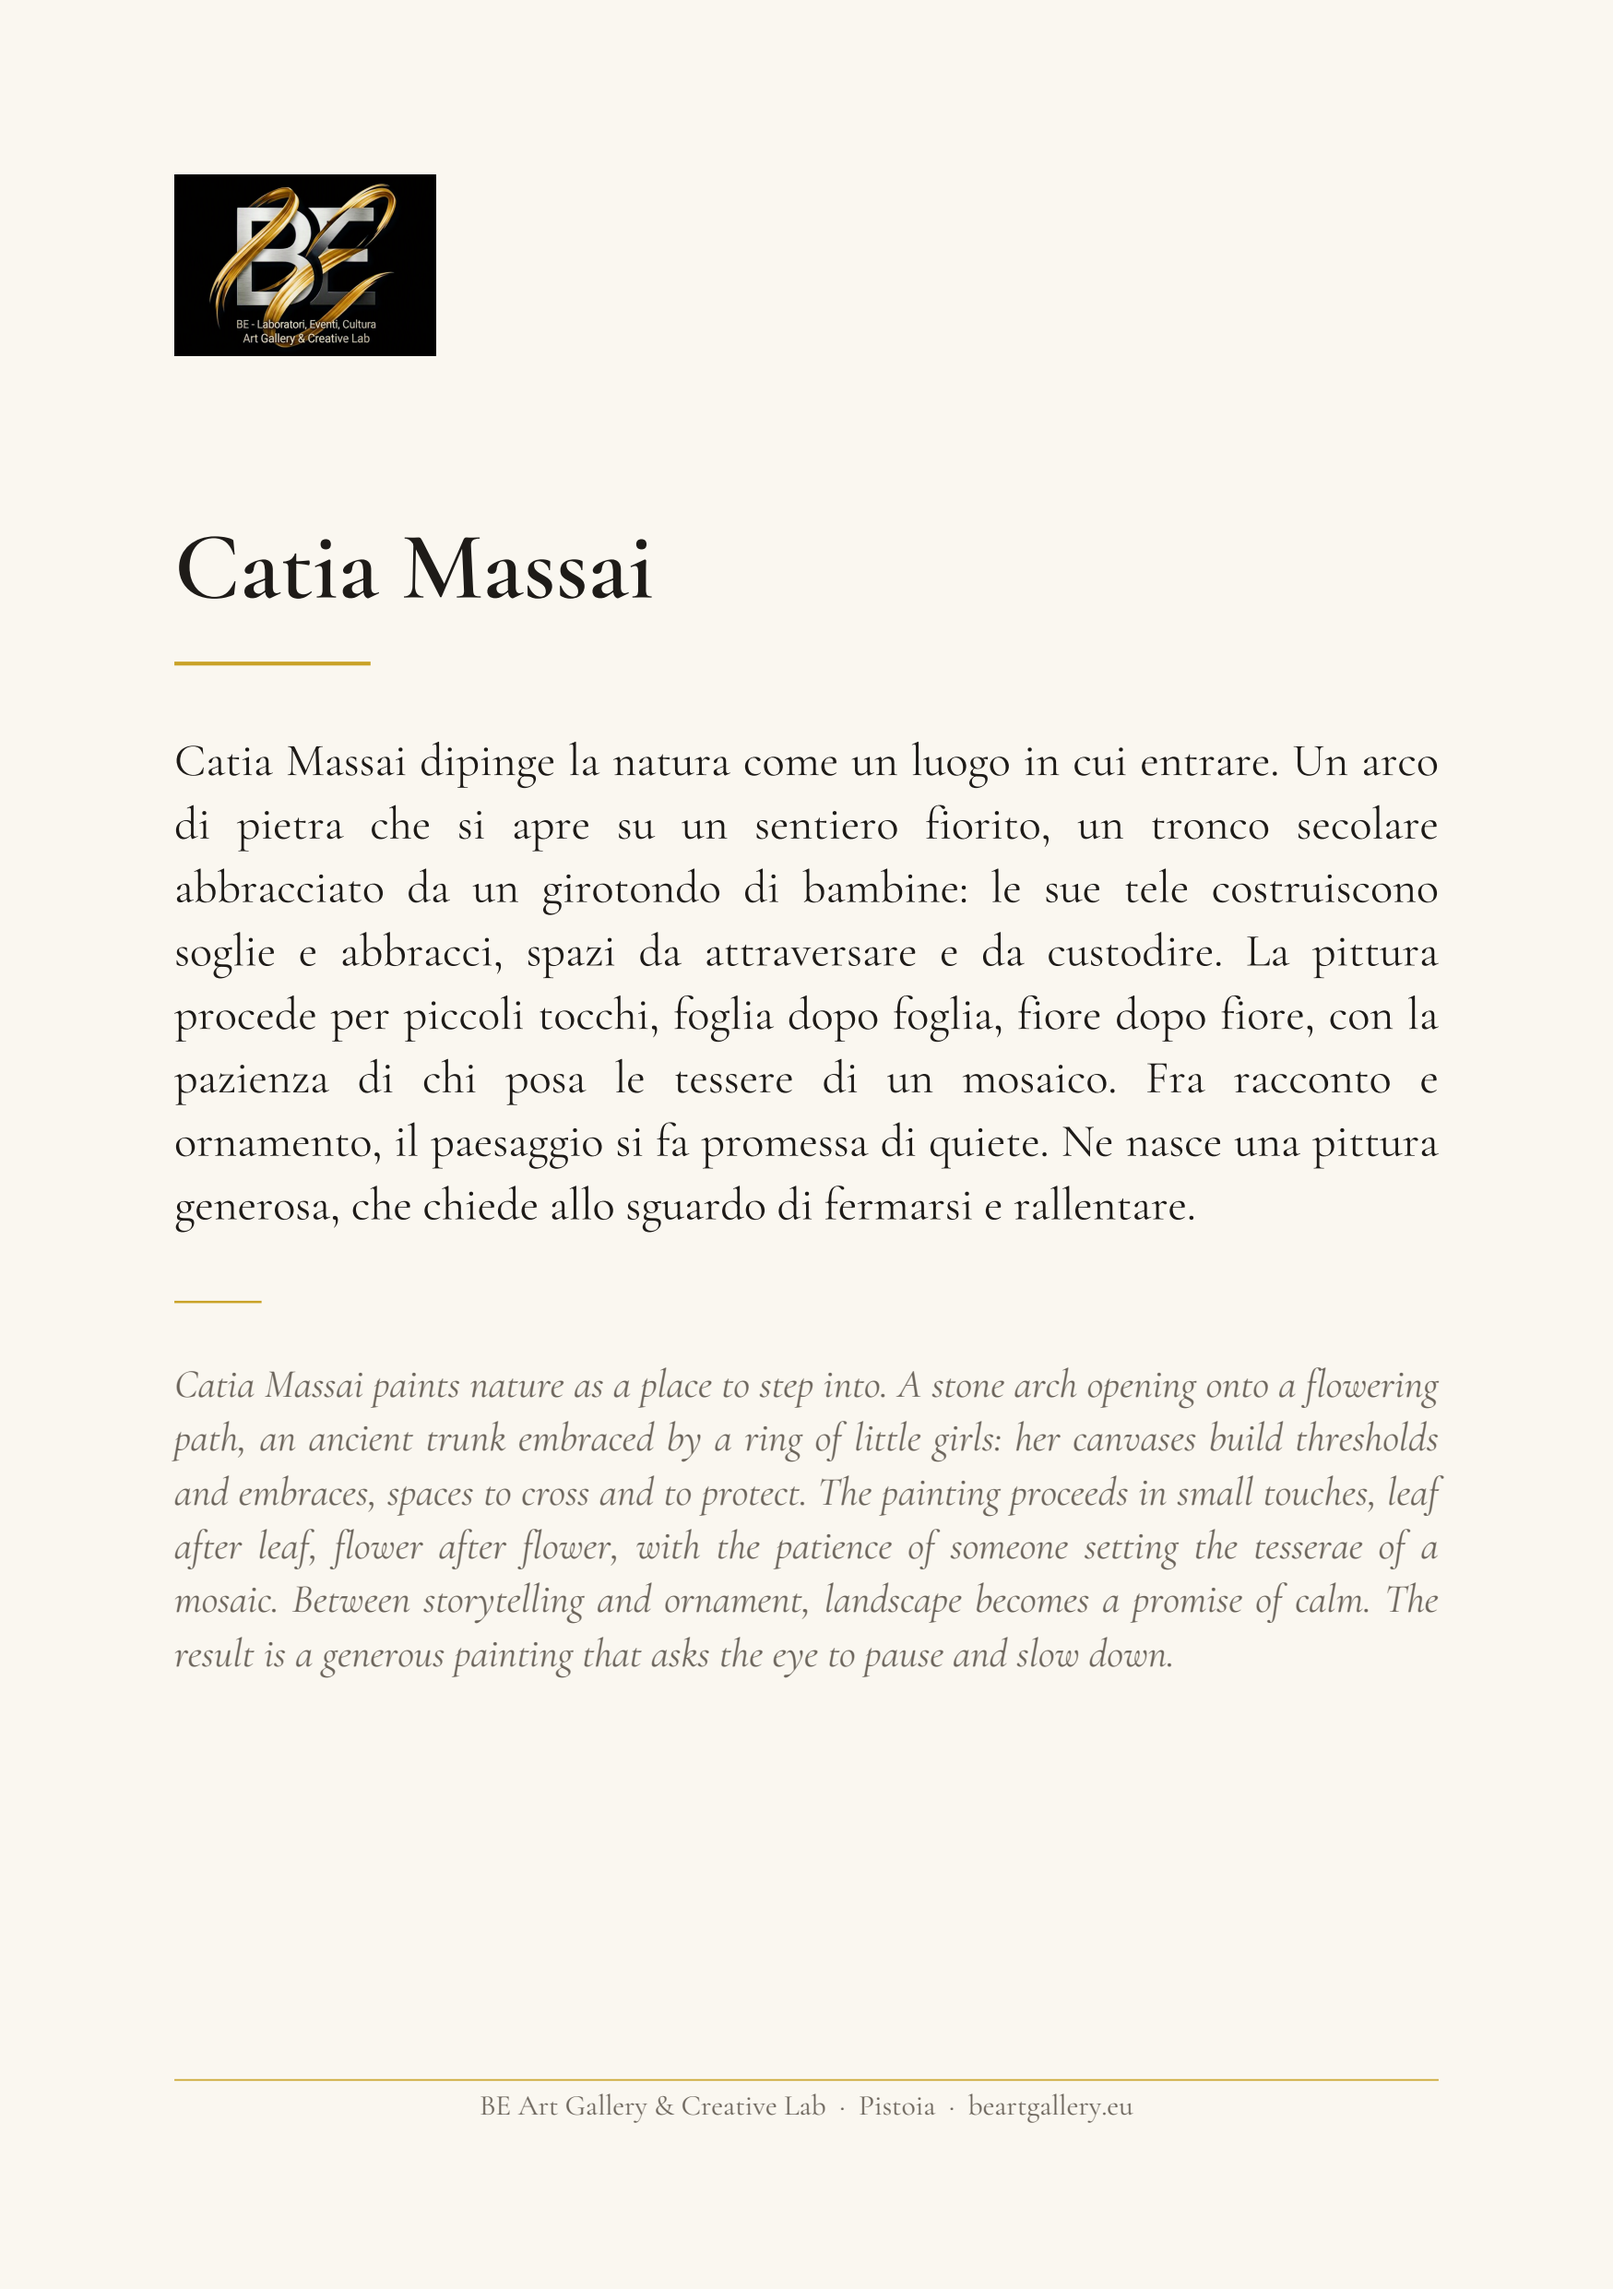
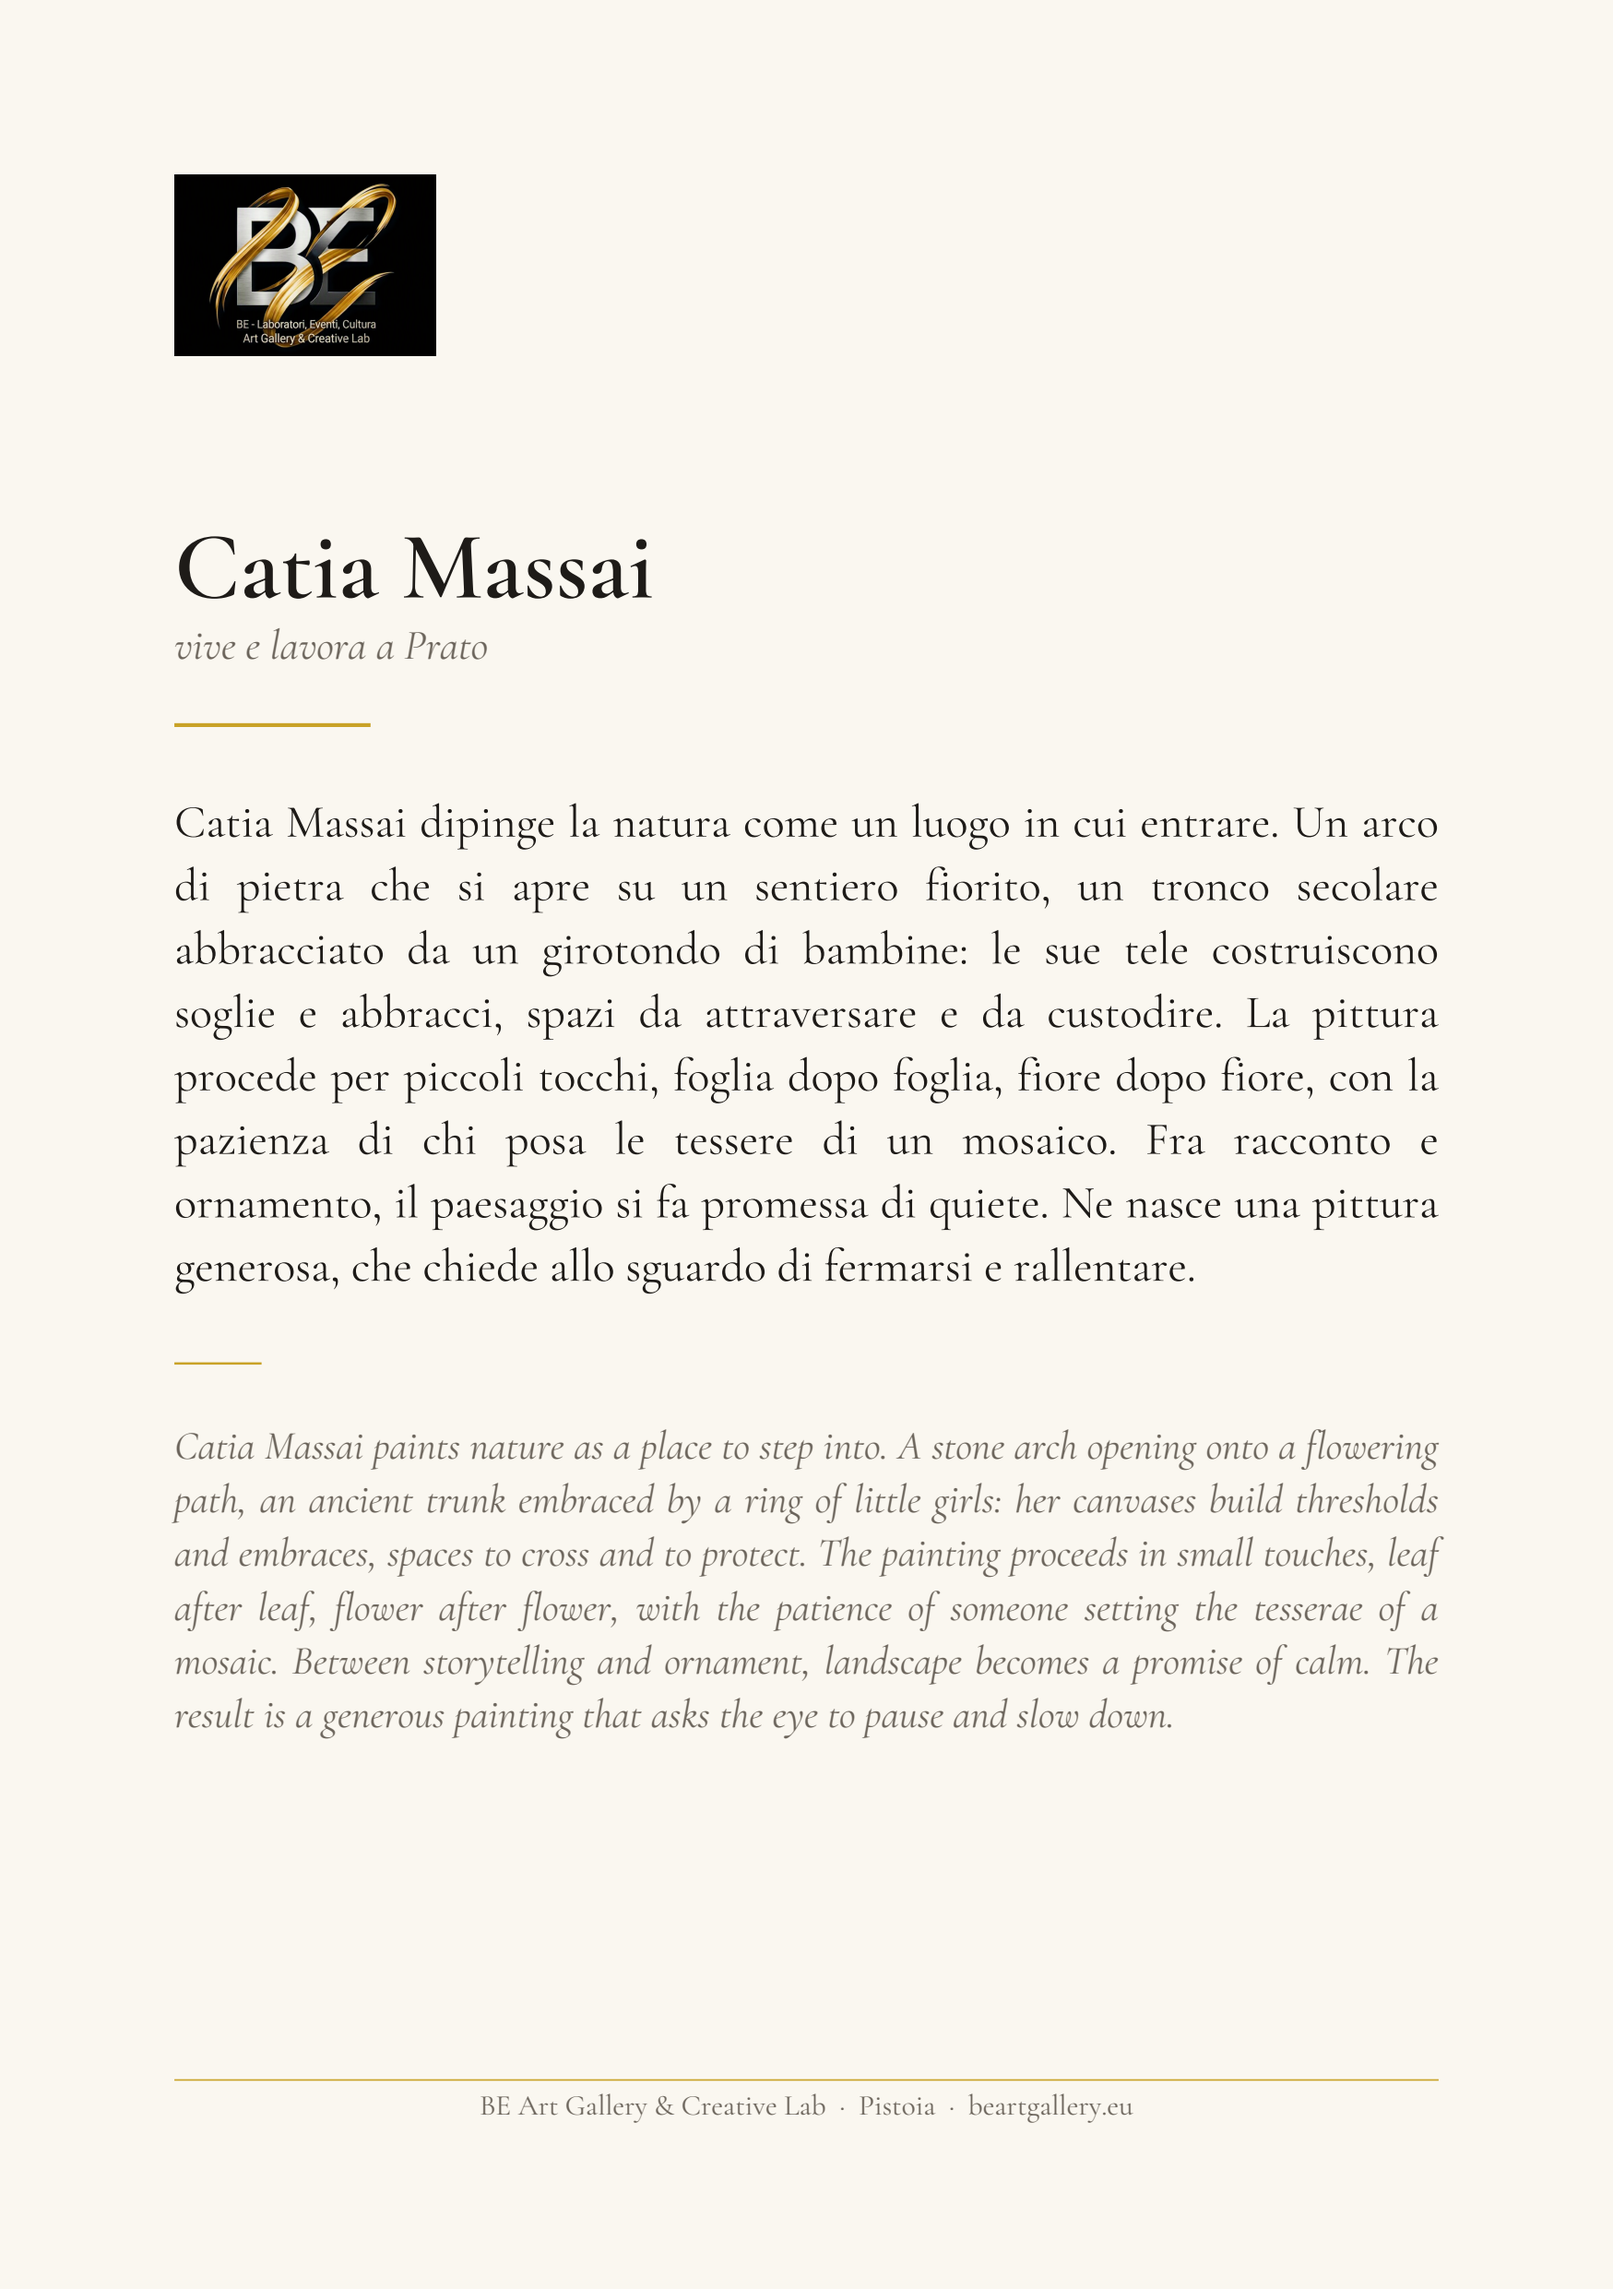
Aggiunge la città di Catia Massai
Claude-Session: https://claude.ai/code/session_0148bZgqQiCtdshijf84M1Qp

Changed region(s): [[0.0926, 0.2793, 0.8954, 0.5586], [0.0926, 0.5897, 0.8954, 0.7759]]

diff --git a/testi-critici/artisti/catia-massai/analisi.md b/testi-critici/artisti/catia-massai/analisi.md
@@ -6,7 +6,7 @@
 
 | | |
 |---|---|
-| **Vive e lavora** | *da confermare* |
+| **Vive e lavora** | Prato |
 | **Opere analizzate** | *Il giardino dei sogni*, 2026, olio su tela, 70 × 70 cm · *Spensieratezza*, 2019, acrilico su tela, 50 × 40 cm |
 | **Stesura** | 6 ottobre 2026 · v1 — presentazione e didascalie pronte |
 | **Testo precedente** | volantino «a cura di Elena Brilli»: natura e ornamento, acquerello e mosaico, rossi e verdi, «giardini immaginari» |
@@ -91,7 +91,6 @@ dell'arco, dipinti come tessere.
   segreto — che qui torna in chiave quotidiana
 
 ### Cosa resta aperto
-- **dove vive e lavora**
 - il volantino precedente parla anche di acquerello e mosaico: se in mostra
   arrivano lavori di quel tipo, la presentazione va allargata
 - in rete non ho trovato niente di attendibile su di lei: la ricerca restituisce
